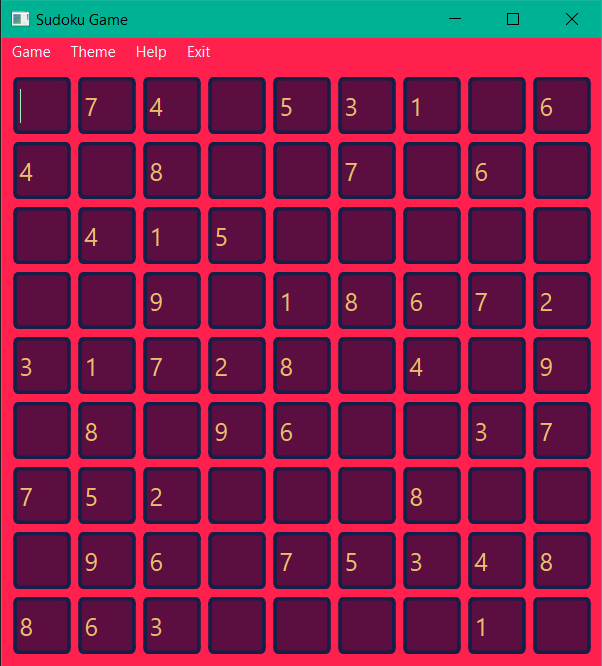
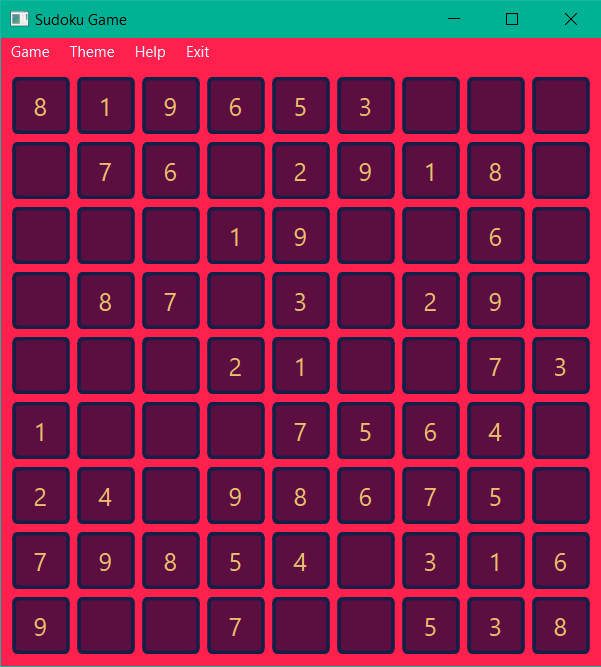
fix Assignment_23_3.1

diff --git a/Assignment_23_3.1/main.py b/Assignment_23_3.1/main.py
@@ -1,6 +1,8 @@
 import sys
 import numpy as np
 from functools import partial
+
+from PySide6.QtCore import Qt
 from PySide6.QtWidgets import *
 from main_ui import Ui_MainWindow
 from sudoku_genarator import *
@@ -18,7 +20,7 @@ class MainWindow(QMainWindow):
 
         self.ui.actionNew_ame.triggered.connect(self.new_game)
         self.ui.actionOpen_File.triggered.connect(self.open_file)
-        self.ui.actionExit.triggered.connect(lambda: exit(0))
+        self.ui.actionExit.triggered.connect(lambda: self.close())
         self.ui.actionRed.triggered.connect(partial(self.change_theme, "red"))
         self.ui.actionYellow.triggered.connect(partial(self.change_theme, "yellow"))
         self.ui.actionGreen.triggered.connect(partial(self.change_theme, "green"))
@@ -29,6 +31,7 @@ class MainWindow(QMainWindow):
         self.new_game()
 
     def new_game(self):
+        self.is_win = True
         self.game = generate_sudoku()
         self.board = empty_cell(self.game, 40)
         for i in range(9):
@@ -49,11 +52,13 @@ class MainWindow(QMainWindow):
                     new_cell.setReadOnly(True)
                 else:
                     new_cell.setReadOnly(False)
+                new_cell.setAlignment(Qt.AlignCenter)
                 new_cell.textChanged.connect(partial(self.validation, i, j))
                 self.cells[i][j] = new_cell
                 self.ui.tabel_gl.addWidget(new_cell, i, j)
 
     def open_file(self):
+        self.is_win = True
         try:
             x = QFileDialog.getOpenFileName(self, 'Open file')
             with open(x[0], 'r') as f:
@@ -63,6 +68,7 @@ class MainWindow(QMainWindow):
                     line[last_index] = line[last_index].strip("\n")
                     for j, cell in enumerate(line):
                         self.cells[i][j].setText(cell)
+                        self.cells[i][j].setAlignment(Qt.AlignCenter)
                         if int(cell) == 0:
                             self.cells[i][j].setReadOnly(False)
                         else:
@@ -187,6 +193,7 @@ class MainWindow(QMainWindow):
             for j_idx, j in enumerate(i):
                 j.setText(str(self.game[i_idx][j_idx]))
                 j.setReadOnly(True)
+                j.setAlignment(Qt.AlignCenter)
 
 
 if __name__ == "__main__":
